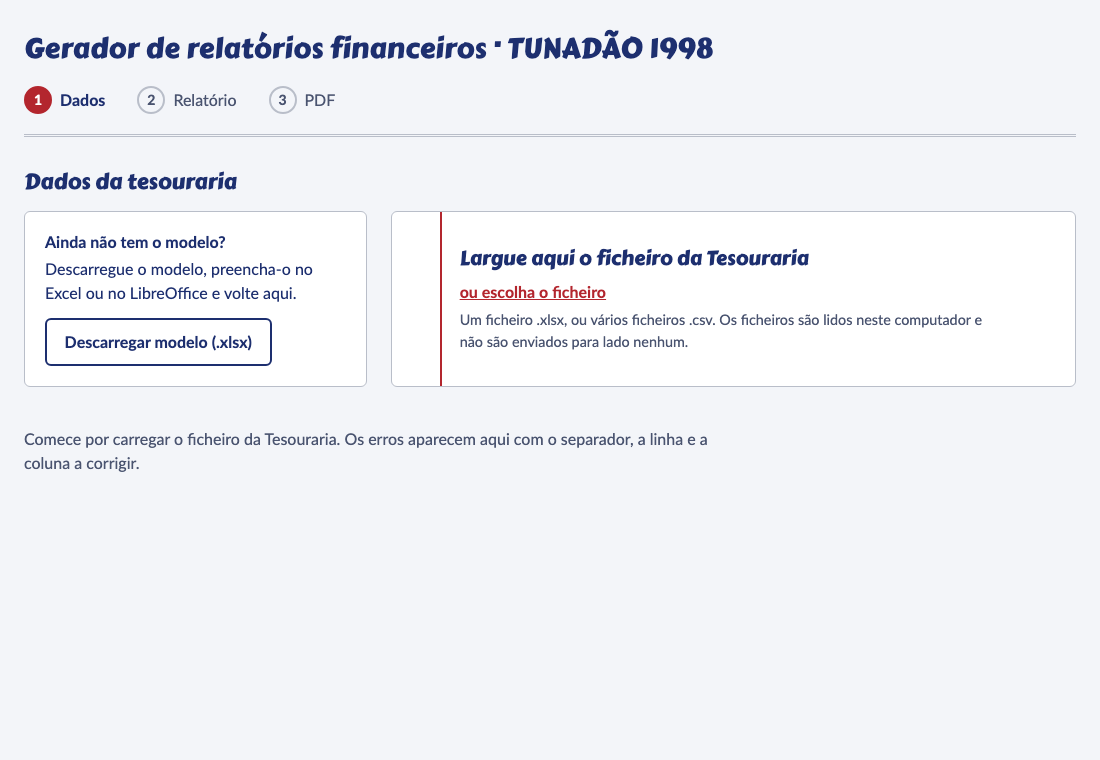
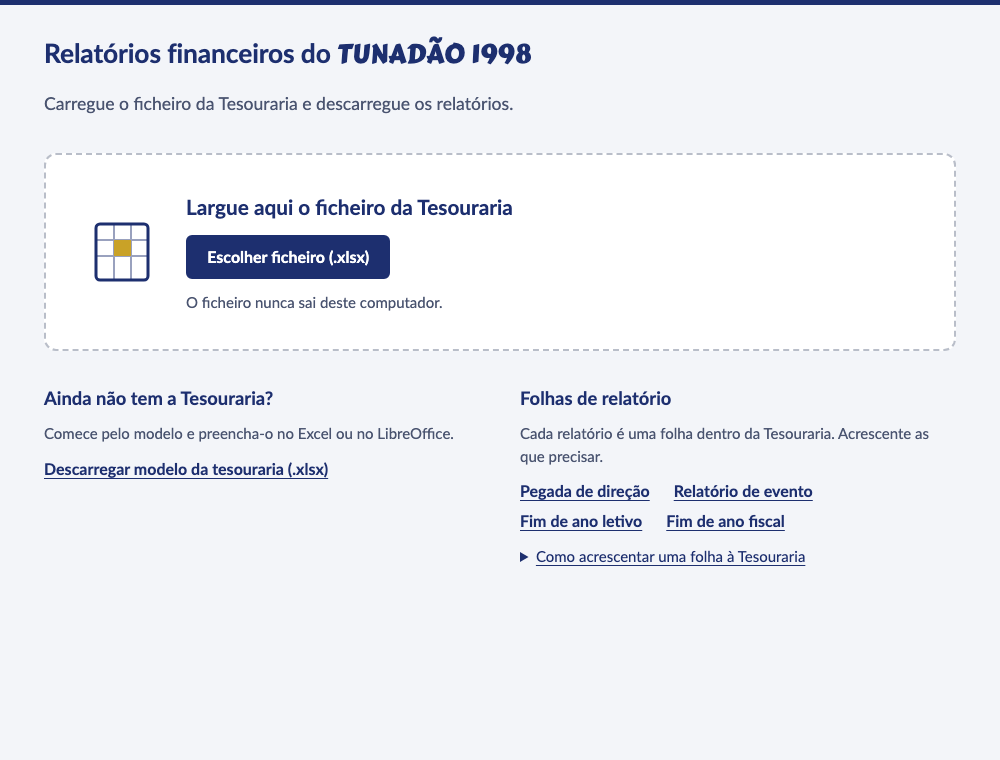
Rewrite the README for the one-screen flow and the sheet-per-report workbook, with new screenshots

diff --git a/README.md b/README.md
@@ -1,70 +1,139 @@
 # Gerador de relatórios financeiros — TUNADÃO 1998
 
-Página estática e CLI que leem a folha de Tesouraria (`.xlsx` ou CSV) e geram os relatórios financeiros da tuna em
-PDF. Tudo acontece no navegador, neste computador: os dados nunca são enviados para lado nenhum. Depois da primeira
+Página estática e CLI que leem a folha de Tesouraria (`.xlsx`) e geram os relatórios financeiros da tuna em PDF.
+Tudo acontece no navegador, neste computador: os dados nunca são enviados para lado nenhum. Depois da primeira
 visita a página funciona também sem ligação à internet.
 
 Há quatro relatórios: **Relatório de evento**, **Pegada de direção**, **Fim de ano letivo** e **Fim de ano fiscal**.
+Cada relatório é uma folha da própria Tesouraria: tudo o que o relatório precisa escreve-se no ficheiro, nunca na
+página.
 
 ## Como usar a página
 
-> A página já não tem formulários: carregue o `.xlsx` e cada folha de relatório do ficheiro aparece com o seu estado, os erros e os botões «Descarregar PDF», «Pré-visualizar» e «dados (.json)». Para corrigir algo, edite o ficheiro e carregue a versão corrigida. Os passos 5 a 9 abaixo e as imagens descrevem o fluxo antigo e serão reescritos.
+O percurso cabe num só ecrã e a página não tem formulários.
 
 ![Início](docs/img/01-inicio.png)
 
-1. **Descarregue o modelo.** Na página inicial, o botão «Descarregar modelo (.xlsx)» dá-lhe a folha de Tesouraria
-   vazia, com listas suspensas e uma aba **Instruções** que traz um exemplo de três movimentos.
-2. **Preencha cada aba** no Excel ou no LibreOffice:
-   - **Movimentos**: cada recebimento e cada pagamento, com a data em que o dinheiro entrou ou saiu. O valor é sempre
-     positivo; o sentido está na coluna Tipo (Entrada ou Saída). Escolha rubrica, sub-rubrica, atividade e meio nas
-     listas suspensas. As colunas cinzentas, marcadas "(automático)", são calculadas: não as edite.
-   - **Pendentes**: valores a receber e dívidas a pagar ainda não liquidados.
-   - **Orçamento**: o orçado por rubrica, para uma atividade ou para um período (por exemplo «20º CITADÃO» ou «2026»).
-   - **Géneros**: apoios em espécie. Ficam listados à parte e nunca entram no saldo.
-   - **Saldos**: pontos de controlo do dinheiro de cada conta (Caixa ou Banco) no fim de um dia, com a fonte
-     (Extrato, Contagem ou Declarado). A primeira linha de cada conta é o saldo de abertura: não o registe como
-     movimento. A página confere cada ponto com o anterior e diz-lhe a diferença, se a houver.
-   - **Listas**: as rubricas, sub-rubricas, atividades e meios que aparecem nas listas suspensas.
-3. **Casos especiais nos Movimentos.**
-   - _Reembolso_: se recebeu de volta dinheiro de uma despesa (por exemplo, uma caução), registe uma **Entrada com a
-     rubrica dessa despesa**. O valor abate à despesa e não conta como receita.
-   - _Transferência entre contas_ (por exemplo, depositar numerário no banco): duas linhas com a rubrica
-     «Transferências internas», uma Saída na conta de origem e uma Entrada na de destino, com o mesmo valor e a
-     mesma data. Não contam como receita nem despesa.
-   - _Sub-rubrica_: é opcional. Vazia, o movimento fica na própria rubrica. A lista mostra todas as sub-rubricas;
-     escolha uma que pertença à rubrica indicada.
-4. **Uma atividade por edição de cada evento que se repete.** O relatório de evento soma todos os movimentos da
-   atividade, por isso edições com o mesmo nome seriam juntas. Use, por exemplo, «Zumba na Caneca 2025» e «Zumba na
-   Caneca 2026», nunca apenas «Zumba na Caneca». Acrescente cada nova atividade no fim da coluna Atividades da aba
-   Listas.
-5. **Carregue o ficheiro.** Largue o `.xlsx` (ou vários `.csv`, um por aba) na zona indicada. A página lê o ficheiro
-   neste computador e mostra a validação.
+1. **Abra a página** e largue o ficheiro da Tesouraria (`.xlsx`) na zona indicada, ou use «Escolher ficheiro». Se
+   ainda não tem o ficheiro, «Descarregar modelo da tesouraria (.xlsx)» dá-lhe um modelo vazio.
+2. **Veja o que o ficheiro tem.** A página lê o ficheiro neste computador e mostra um resumo dos dados (período dos
+   movimentos, número de movimentos e atividades, caixa e banco no último dia) e uma entrada por folha de relatório,
+   da mais recente para a mais antiga.
 
-   ![Validação](docs/img/02-validacao.png)
+   ![Relatórios do ficheiro](docs/img/02-relatorios.png)
 
-6. **Corrija os erros.** Cada problema indica o ficheiro, a aba, a linha e a coluna, com uma sugestão. Os erros
-   impedem a geração; os avisos não, mas ficam listados. Corrija a folha, volte a carregá-la e carregue em
-   «Continuar» quando aparecer «Dados válidos». Um CSV que a página não reconhece abre um ecrã onde indica a que
-   coluna corresponde cada campo; a escolha fica guardada neste navegador para a próxima vez.
-7. **Escolha o relatório.**
+   Cada entrada diz o estado da folha (**Pronto**, **Pronto, com avisos**, **Com erros**, **Por preencher** ou
+   **Bloqueado pelos dados**), escreve por extenso todas as datas do relatório (e de onde veio cada data que ficou em
+   branco) e mostra os valores principais. Confira as datas e os valores antes de descarregar.
 
-   ![Escolher o relatório](docs/img/03-escolher-relatorio.png)
+3. **Corrija o que for preciso, no ficheiro.** Cada erro diz a folha e a célula (`Folha "Pegada 2026", célula B8`);
+   nos separadores de dados diz a linha e a coluna. Os erros impedem a geração, os avisos não. Edite o ficheiro na
+   folha de cálculo, grave-o e carregue a versão corrigida: o botão «Carregar versão corrigida», ou largar o ficheiro
+   em qualquer ponto da página, substitui tudo o que estava listado.
 
-8. **Preencha os parâmetros.** Os campos mudam com o relatório (atividade e datas do evento, data da passagem e
-   contagem de caixa, período, ano fiscal, notas, parecer do Conselho Fiscal). Os problemas dos dados aparecem em
-   direto.
+   ![Erros numa folha de relatório](docs/img/04-erros-na-folha.png)
 
-   ![Parâmetros](docs/img/04-parametros.png)
+   Se os erros estiverem nos separadores de dados (Movimentos, Saldos, …), nenhum relatório fica pronto até serem
+   corrigidos.
 
-9. **Gere e descarregue.** «Gerar PDF» compõe o relatório e mostra a pré-visualização. «Descarregar PDF» guarda o
-   ficheiro; «Descarregar dados (.json)» guarda os números do relatório. «Alterar parâmetros» volta ao formulário.
+   ![Erros nos dados](docs/img/05-erros-nos-dados.png)
 
-   ![Relatório de exemplo](docs/img/05-relatorio-exemplo.png)
+4. **Descarregue.** «Descarregar PDF» gera e guarda o PDF dessa folha; «Pré-visualizar» mostra-o por baixo da entrada
+   sem sair da página; «dados (.json)» guarda os números do relatório. Os ficheiros chamam-se, por exemplo,
+   `2026-09-30 Pegada de direção.pdf` ou `2026-06-15 Relatório de evento - 20º CITADÃO.pdf` (a data é a do fim do
+   relatório).
+5. **Ou descarregue tudo de uma vez.** «Descarregar todos (.zip)» gera os PDFs de todas as folhas prontas, um a um
+   («A gerar 2 de 5…»), e guarda-os num só ficheiro `Relatórios.zip`. Os PDFs que já tinha gerado nessa visita
+   não se geram outra vez. A linha por baixo do botão diz quantos relatórios entraram e nomeia as folhas que ficaram
+   de fora e porquê.
+6. **Prepare as folhas seguintes.** Quando o ficheiro já tem uma pegada ou um período fechado, a página oferece em
+   «Próximas folhas» a pegada seguinte (com a data do último relatório e a direção cessante já escritas) e o fim de
+   ano letivo seguinte (com o início do período). Descarregue-as, acrescente-as à Tesouraria e preencha o resto.
 
-Na primeira utilização a página descarrega o motor de PDF (cerca de 10 MB). Se carregar em «Gerar PDF» antes de ele
-estar pronto, aparece «A preparar o motor de PDF… N %». Depois disso fica guardado no navegador e a página abre e
-gera relatórios mesmo sem internet. Quando há uma versão nova, aparece «Nova versão disponível» com o botão
-«Recarregar».
+   ![Descarregar todos e próximas folhas](docs/img/03-descarregar-todos.png)
+
+Na primeira utilização a página descarrega o motor de PDF (cerca de 10 MB). Se pedir um PDF antes de ele estar pronto,
+aparece «A preparar o motor de PDF… N %». Depois disso fica guardado no navegador e a página abre e gera relatórios
+mesmo sem internet. Quando há uma versão nova, aparece «Nova versão disponível» com o botão «Recarregar».
+
+Só são aceites ficheiros `.xlsx`. No LibreOffice use «Guardar como» `.xlsx`; no Google Sheets use «Ficheiro, Transferir,
+Microsoft Excel (.xlsx)».
+
+## Como está organizada a Tesouraria
+
+O ficheiro tem **separadores de dados** (a contabilidade do dia a dia) e **uma folha por relatório**.
+
+| Separador           | Para quê                                                                                                                                                                                                                                                |
+| ------------------- | ------------------------------------------------------------------------------------------------------------------------------------------------------------------------------------------------------------------------------------------------------- |
+| Instruções          | Guia curto dentro do próprio ficheiro, com um exemplo. A página ignora-o.                                                                                                                                                                               |
+| Listas              | As rubricas, sub-rubricas, atividades, meios e orçamentos que aparecem nas listas suspensas. Não há nada para mudar no código.                                                                                                                          |
+| Saldos              | Pontos de controlo do dinheiro de cada conta (Caixa ou Banco) no fim de um dia, com a fonte (Extrato, Contagem ou Declarado). A primeira linha de cada conta é o saldo de abertura: escreva-a com a fonte **Declarado** e não a registe como movimento. |
+| Movimentos          | Cada recebimento e cada pagamento, com a data em que o dinheiro entrou ou saiu. O valor é sempre positivo; o sentido está na coluna Tipo (Entrada ou Saída). As colunas cinzentas, marcadas «(automático)», são calculadas: não as edite.               |
+| Pendentes           | Valores a receber e dívidas a pagar ainda não liquidados.                                                                                                                                                                                               |
+| Orçamento           | O orçado por rubrica, para uma atividade ou para um período (por exemplo «20º CITADÃO» ou «2026»). O nome do orçamento tem de existir em Listas.                                                                                                        |
+| Géneros             | Apoios em espécie. Ficam listados à parte e nunca entram no saldo.                                                                                                                                                                                      |
+| Folhas de relatório | Uma por relatório que quer gerar: «Modelo Pegada», «Modelo Evento», «Modelo Letivo» e «Modelo Fiscal» vêm no modelo; o nome pode ser qualquer um.                                                                                                       |
+
+Casos especiais nos Movimentos:
+
+- _Reembolso_: se recebeu de volta dinheiro de uma despesa (por exemplo, uma caução), registe uma **Entrada com a
+  rubrica dessa despesa**. O valor abate à despesa e não conta como receita.
+- _Transferência entre contas_ (por exemplo, depositar numerário no banco): duas linhas com a rubrica
+  «Transferências internas», uma Saída na conta de origem e uma Entrada na de destino, com o mesmo valor e a mesma
+  data. Não contam como receita nem despesa.
+- _Sub-rubrica_: é opcional. Vazia, o movimento fica na própria rubrica. Escolha uma que pertença à rubrica indicada.
+- **Uma atividade por edição de cada evento que se repete.** O relatório de evento soma todos os movimentos da
+  atividade, por isso edições com o mesmo nome seriam somadas. Use «Zumba na Caneca 2025» e «Zumba na Caneca 2026»,
+  nunca apenas «Zumba na Caneca», e acrescente cada nova atividade em Listas.
+
+### Uma folha por relatório
+
+Uma folha de relatório é um pequeno formulário escrito na própria folha de cálculo: os nomes dos campos na coluna A,
+os valores na coluna B e, por baixo, quadros com título (pagamentos ainda não debitados, contagem de caixa, notas,
+assinaturas). A coluna C traz uma dica a cinzento que a página não lê.
+
+![Folha de relatório da pegada](docs/img/07-folha-pegada.png)
+
+- **O tipo vem de uma célula, não do nome da folha.** A célula «Relatório» (linha 1) diz de que relatório se trata, e a
+  folha pode chamar-se como quiser («Pegada 2026», «CITADÃO 2026», …). A célula «Versão do modelo» (linha 2) diz com
+  que versão do modelo a folha foi criada; se a apagar, a página assume a versão 1.
+- **A página lê o que está escrito nas células**, pelo nome do campo, por isso pode inserir ou mexer linhas dentro da
+  folha. As listas suspensas, as cores e as fórmulas são só conforto: uma fórmula nunca conta como valor, e uma célula
+  que só tem fórmula, sem valor guardado, é um erro («abra e grave o ficheiro na folha de cálculo antes de carregar»).
+- **Datas deixadas em branco que o ficheiro já conhece.** Na pegada, «Data do último relatório» fica igual ao fim do
+  relatório anterior do ficheiro; no fim de ano letivo, «Início do período» fica igual ao dia seguinte ao fim do
+  relatório anterior; no relatório de evento, «Pendentes à data de» fica igual a «Contar movimentos até» (ou ao
+  último movimento do ficheiro). A página escreve sempre a data por extenso e a origem, para a confirmar.
+- **Textos compridos**: um parágrafo por linha. Para mudar de linha dentro da mesma célula use Alt+Enter no Excel e
+  Ctrl+Enter no LibreOffice e no Google Sheets.
+- **O saldo do extrato bancário da pegada** escreve-se na própria folha («Saldo do extrato bancário na data da
+  passagem»). Uma linha de Saldos com a fonte «Extrato» já não o preenche.
+
+### Como acrescentar uma folha de relatório
+
+1. Descarregue a folha em branco na página inicial (Pegada de direção, Relatório de evento, Fim de ano letivo ou Fim de
+   ano fiscal), ou use as «Próximas folhas» pré-preenchidas.
+2. Insira-a na Tesouraria:
+   - **Excel**: botão direito num separador, «Mover ou Copiar…», escolha a Tesouraria como destino e marque «Criar uma
+     cópia».
+   - **LibreOffice**: «Folha, Inserir folha a partir de ficheiro…».
+   - **Google Sheets**: «Ficheiro, Importar», separador «Carregar», e em «Local de importação» escolha «Inserir novas
+     folhas». **Antes de preencher, escolha «Ficheiro, Definições, Região: Portugal»** (basta uma vez), para as datas
+     serem lidas como dia/mês/ano.
+3. Preencha a folha, grave a Tesouraria como `.xlsx` e carregue-a na página.
+
+Para uma segunda pegada ou outro evento, copie a folha («Duplicar» em qualquer das aplicações) e altere os valores.
+
+### Se já tem uma Tesouraria da versão anterior
+
+Os separadores de dados continuam a ser lidos como estavam. Faltam-lhe só as folhas de relatório: a página mostra-o com
+as quatro folhas em branco para descarregar. Mudanças a ter em conta:
+
+- Os valores que antes se escreviam na página (datas, nomes, notas, parecer, contagem de caixa, saldo do extrato
+  bancário) escrevem-se agora na folha do relatório.
+- **O saldo de abertura já não se escreve na página.** Declare-o em Saldos, numa linha com a fonte «Declarado».
+- **Os ficheiros CSV já não são aceites**: guarde o conjunto como um só `.xlsx`.
+- Linhas de exemplo do modelo antigo marcadas como «(exemplo fictício)» são agora erros: apague-as.
 
 ## Como gerar pela linha de comandos
 
@@ -87,7 +156,7 @@ npm run gerar -- --entrada <ficheiro.xlsx> --folha "<nome da folha>"
 - `--saida` por omissão é `<data> <relatório>.pdf` na pasta atual (por exemplo `2026-09-30 Pegada de direção.pdf`).
   `--json` escreve também o JSON do relatório. Ambos substituem um ficheiro existente.
 - `--agora` é a data e hora de geração em hora de Lisboa; por omissão, a hora atual de Lisboa.
-- Os problemas dos separadores de dados saem em stderr, um por linha: `ERRO|AVISO Separador Movimentos, linha N, coluna C — mensagem (sugestão: ...)`.
+- Os problemas dos separadores de dados saem um por linha: `ERRO|AVISO Separador Movimentos, linha N, coluna C — mensagem (sugestão: ...)`. Com `--listar` saem em stdout, antes das folhas, e `npm run -s gerar -- --entrada tesouraria.xlsx --listar > lista.txt` guarda tudo (`-s` esconde o cabeçalho do npm); ao gerar uma folha saem em stderr.
 - `--tipo`, `--param` e `--params` já não existem; usá-los é um erro de utilização que indica a alternativa.
 
 | Código | Significado                                                           |
@@ -138,7 +207,7 @@ impede a página e o CLI de arrancar, com uma mensagem a dizer qual o campo erra
 ### Stack
 
 - TypeScript (modo estrito), Preact 11, Vite 8, Node 24 (`.nvmrc`).
-- Folhas lidas com SheetJS CE 0.20.3 (`vendor/xlsx-0.20.3.tgz`, que não vem do registo npm) e Papa Parse para CSV.
+- Folhas lidas com SheetJS CE 0.20.3 (`vendor/xlsx-0.20.3.tgz`, que não vem do registo npm). O zip e as folhas pré-preenchidas usam `fflate` (só a API síncrona, compatível com a CSP).
 - Zod 4 valida os dados, os parâmetros e `config/config.json`.
 - PDFs compostos por Typst 0.14.2 em WebAssembly (`@myriaddreamin/typst.ts` e `@myriaddreamin/typst-ts-web-compiler`,
   ambos fixados em `0.7.0`).
@@ -172,7 +241,7 @@ build:fixtures` escreve `fixtures/generated` (um `.xlsx` com as cinco folhas de 
 - `fixtures/v1/` guarda, congelados, os ficheiros da versão anterior (parâmetros, exemplos, modelo e tesouraria) que
   servem de referência aos testes; `examples/*.json` são os relatórios de exemplo gerados a partir das folhas do
   ficheiro `fixtures/generated/tesouraria.xlsx`.
-- `tests/e2e` cobre os percursos principais, a política de segurança (nenhum pedido a outras origens, `eval` e
+- `tests/e2e` cobre os percursos principais (carregar, descarregar cada PDF e os dados, o zip com os cinco PDFs, as próximas folhas, a correção de erros, a paridade entre a página e o CLI), a política de segurança (nenhum pedido a outras origens, `eval` e
   `new Function` bloqueados no worker) e o funcionamento offline.
 - `tests/visual` rasteriza os PDFs de exemplo e compara-os com as imagens de referência.
 
@@ -187,8 +256,8 @@ a página mostra «Nova versão disponível» e, ao carregar em «Recarregar», 
 Sem esse clique, o worker novo assume quando o separador for fechado e reaberto.
 
 O motor de PDF começa a carregar quando o navegador está livre. Na primeira visita (ainda sem service worker a controlar a
-página) espera que o worker esteja ativo, para que o wasm seja descarregado uma só vez, pela pré-colocação em cache; se o
-registo falhar, carrega na mesma.
+página) qualquer pedido de PDF, mesmo feito logo a seguir a carregar o ficheiro, espera que o worker esteja ativo, para
+que o wasm seja descarregado uma só vez, pela pré-colocação em cache; se o registo falhar, carrega na mesma.
 
 O Playwright WebKit não consegue simular «offline» numa página servida por um service worker, por isso o percurso
 offline corre em chromium e firefox e o webkit só verifica a cache. O Safari deve ser confirmado à mão no
